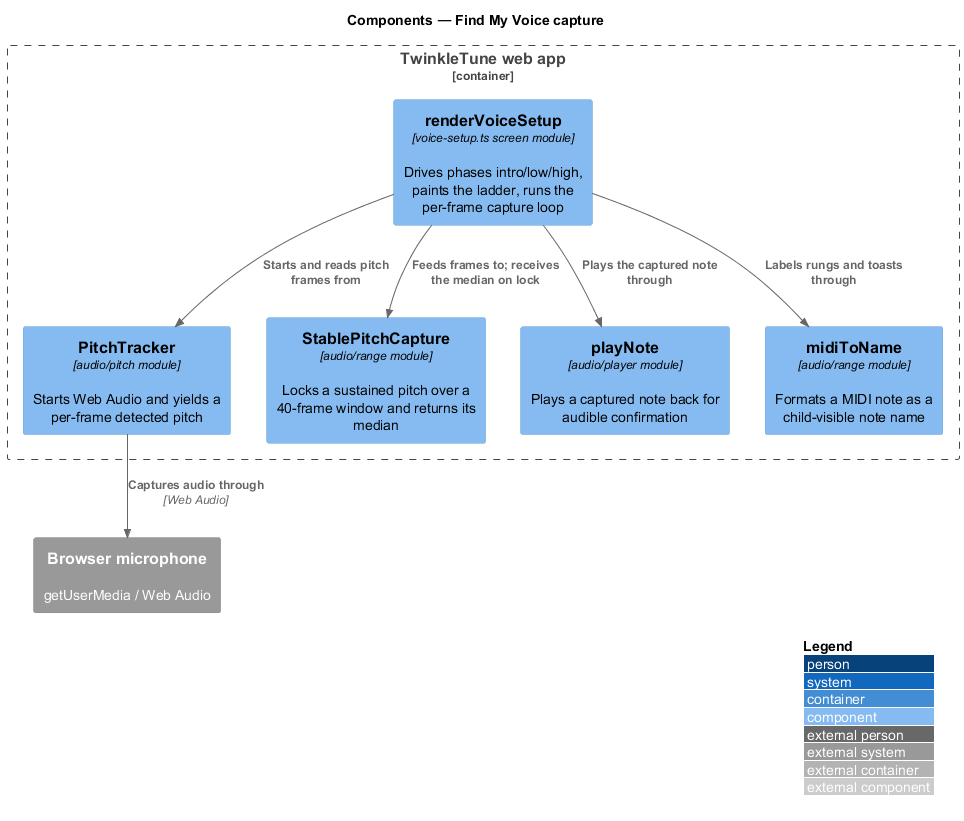
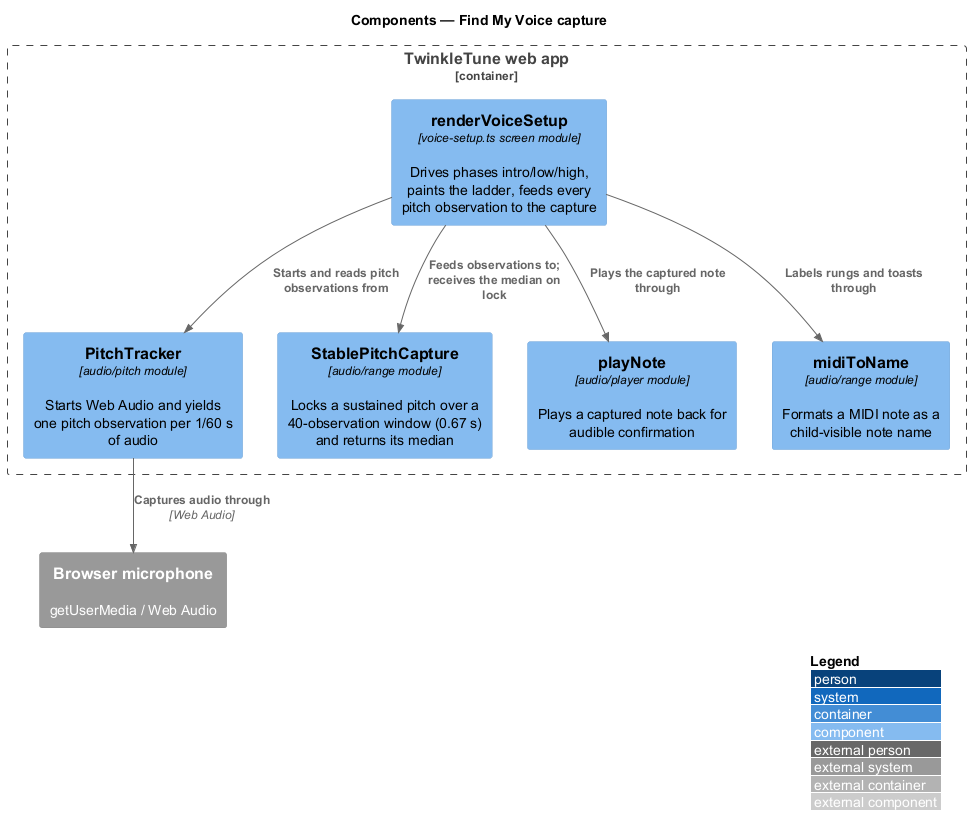
Specify Find My Voice capture on the fixed analysis step (VP-L2-3, VP-L2-4)
Requirement and design: the detection window is 40 observations of the
audio engine's 1/60 s step, 0.67 s of singing on every device, instead of
40 animation frames (0.33 s at 120 Hz, 1.3 s at 30 fps).

diff --git a/docs/detailed-designs/voice-personalization/capture-vocal-range/README.md b/docs/detailed-designs/voice-personalization/capture-vocal-range/README.md
@@ -19,8 +19,11 @@ semitone
 **pitch ladder** — vertical strip of 12 rungs spanning C3 to C6, 3 semitones per rung, that
 visualises the currently detected pitch
 
-**detection window** — rolling buffer of 40 frames, about 0.7 s at 60 fps, over which pitch
-stability is measured
+**observation** — pitch (or none) for one 1/60 s step of audio, as the Audio Engine reports it;
+several arrive in one animation frame on a slow display and none on some frames of a fast one
+
+**detection window** — rolling buffer of 40 observations, 0.67 s of singing on every device, over
+which pitch stability is measured
 
 **stable-pitch lock** — acceptance of a note once the detection window is full and the spread
 between its 10th and 90th percentile detected pitches is at most 1.0 semitone
@@ -35,7 +38,8 @@ The low note is stored first, the high note second. A high note that fails the s
 rejected with a gentle prompt rather than an error.
 
 Capture runs fully on device and offline. The browser microphone supplies audio; the
-`PitchTracker` in the Audio Engine turns it into per-frame pitch; the rest is screen logic and a
+`PitchTracker` in the Audio Engine turns it into one pitch observation per 1/60 s of audio; the
+rest is screen logic and a
 small stability filter. No server takes part. This feature is the front door to Voice
 Personalization: `compute-transposition` consumes the captured range to re-key songs, and
 `persist-and-sync-range` stores it against the singer. Denied-microphone handling and the
@@ -57,16 +61,22 @@ the browser microphone.
 - **`paintLadder`** — marks the current rung, lights the rungs below it, and places the singer's
   avatar marker on the current rung; shows no current rung when no pitch is detected.
 - **`PitchTracker`** — pitch primitive in `frontend/src/audio/pitch.ts`. Its `start` opens the
-  microphone, `read` returns the current frame with a `midi` value or `null`, and `stop` releases
-  the microphone.
+  microphone, `readHops` returns every observation that has come due since the previous call —
+  each a frame with a `midi` value, or `null` — `latest` holds the newest frame, and `stop`
+  releases the microphone.
 - **`StablePitchCapture`** — stability filter in `frontend/src/audio/range.ts`. `feed(midi | null)`
-  accumulates a 40-frame window (`windowFrames = 40`), tolerates silent frames, and returns the
+  accumulates a 40-observation window (`windowFrames = 40`), tolerates silent observations, and
+  returns the
   median once the 10th-to-90th-percentile spread is within `spreadSemitones = 1.0`; `progress`
   reports 0..1 toward a lock; `reset` clears the buffer.
 - **`beginListening`** — starts the tracker, routes a denied microphone to the mic-denied dialog
   (see `fall-back-without-range`), enters the `low` phase, and starts the loop.
-- **`loop`** — per animation frame, reads a frame, paints the ladder, feeds the capture, and
-  updates the "Keep holding it… n%" text from `progress`.
+- **`loop`** — per animation frame, reads the observations with `readHops`, paints the ladder
+  from the newest frame, feeds every observation to the capture in order, and updates the "Keep
+  holding it… n%" text from `progress`. Feeding observations rather than animation frames is what
+  makes the window 0.67 s of singing on every device: a slow tablet gets several per frame, and
+  no child has to hold a note longer because her screen redraws slowly. A lock ends the frame's
+  feeding; the rest of that batch is dropped.
 - **`captured`** — on lock, stores the low note and advances, or applies the separation guard and
   finishes the high note.
 - **`markCaptured`** — marks a rung captured and labels it with `midiToName`.
@@ -84,8 +94,8 @@ more level-1 (L1) requirements, cited by identifier.
 |-------|--------------|-------------|
 | `VP-L2-1` | `VP-L1-1` | The "Find My Voice" screen shall present exactly three visible steps — an introduction, a low‑note capture, and a high‑note capture — and shall advance a three‑dot progress indicator as the singer moves through them. |
 | `VP-L2-2` | `VP-L1-1` | The screen shall display a ladder of 12 rungs spanning C3 to C6 (3 semitones per rung) and shall highlight the rung corresponding to the singer's currently detected pitch, filling in lower rungs to visualise how high she is singing. |
-| `VP-L2-3` | `VP-L1-1, VP-L1-4` | Capture shall lock onto a note only after the singer holds a steady pitch for a full detection window (40 frames, ≈0.7 s at 60 fps) during which the spread between the 10th and 90th percentile of detected pitches is at most 1.0 semitone; on lock it shall return the median pitch and reset for the next capture. |
-| `VP-L2-4` | `VP-L1-4` | A capture in progress shall survive brief detector dropouts (silent frames) but shall reset its buffer once silence exceeds 8 consecutive frames, so that a genuinely abandoned attempt does not produce a stale reading. |
+| `VP-L2-3` | `VP-L1-1, VP-L1-4` | Capture shall lock onto a note only after the singer holds a steady pitch for a full detection window — 40 consecutive observations of the audio engine's fixed 1/60 s step, 0.67 s of singing whatever the display's frame rate — during which the spread between the 10th and 90th percentile of detected pitches is at most 1.0 semitone; on lock it shall return the median pitch and reset for the next capture. |
+| `VP-L2-4` | `VP-L1-4` | A capture in progress shall survive brief detector dropouts (silent observations) but shall reset its buffer once silence exceeds 8 consecutive observations (133 ms), so that a genuinely abandoned attempt does not produce a stale reading. |
 | `VP-L2-5` | `VP-L1-1` | When the low note locks, the system shall store it as the range low, play the captured note back so the child hears it, mark the ladder rung as captured, confirm with an encouraging message, and advance to the high phase. |
 | `VP-L2-6` | `VP-L1-4` | In the high phase, a captured pitch that is fewer than 4 semitones above the stored low note shall be rejected with a gentle "reach a little higher" prompt and shall not be accepted as the high note; only a pitch at least 4 semitones above the low note shall complete capture. |
 | `VP-L2-7` | `VP-L1-1, VP-L1-7` | Each phase shall guide the child with playful, imagery‑based instructions ("a big cozy laaa", "squeak up high like a baby bird") and shall explain the benefit ("tunes every song to fit YOUR voice — never too high, never too low") without requiring the child to understand notes, octaves, or MIDI. |
@@ -108,7 +118,7 @@ external it depends on.
 
 ### Components
 
-Inside the web app, `renderVoiceSetup` drives the loop: `PitchTracker` supplies frames,
+Inside the web app, `renderVoiceSetup` drives the loop: `PitchTracker` supplies observations,
 `StablePitchCapture` locks a sustained pitch, and `playNote` and `midiToName` confirm the result.
 
 ![C4 component view for Find My Voice capture](diagrams/c4-component.png)
@@ -122,7 +132,8 @@ and tracks the current `Phase`.
 
 ### Behaviour — capture a note
 
-The loop paints the ladder each frame and feeds the capture. An `opt` block shows the dropout
+The loop paints the ladder each frame and feeds the capture every observation heard since the
+previous frame. An `opt` block shows the dropout
 tolerance from `VP-L2-4`; the closing `alt` shows the low-note confirmation, the `VP-L2-6`
 separation guard rejection, and high-note acceptance.
 

diff --git a/docs/specs/voice-personalization/L2.md b/docs/specs/voice-personalization/L2.md
@@ -55,37 +55,47 @@ Primary sources: `frontend/src/screens/voice-setup.ts`, `frontend/src/audio/rang
 
 ### VP-L2-3 — Stable sustained‑pitch lock
 - **Traces to:** VP-L1-1, VP-L1-4 · **Priority:** Must
-- **Source:** `frontend/src/audio/range.ts` (`StablePitchCapture`, window 40 frames, spread 1.0 semitone); `frontend/src/audio/range.test.ts`
+- **Revised:** v1.6 (the window is 40 observations on the engine's fixed step — the same 0.67 s of
+  singing on every device — not 40 animation frames)
+- **Source:** `frontend/src/audio/range.ts` (`StablePitchCapture`, window 40 observations, spread 1.0 semitone); `frontend/src/screens/voice-setup.ts` (feeds every observation from `tracker.readHops()`); `frontend/src/audio/range.test.ts`
 - **Requirement:** Capture shall lock onto a note only after the singer holds a steady pitch for a full
-  detection window (40 frames, ≈0.7 s at 60 fps) during which the spread between the 10th and 90th
-  percentile of detected pitches is at most 1.0 semitone; on lock it shall return the median pitch and
-  reset for the next capture.
+  detection window — 40 consecutive observations of the audio engine's fixed 1/60 s step (AE-L2-21),
+  0.67 s of singing — during which the spread between the 10th and 90th percentile of detected pitches
+  is at most 1.0 semitone; on lock it shall return the median pitch and reset for the next capture.
+  The window shall be the same length of singing whatever the display's frame rate: a child shall not
+  have to hold a note twice as long on a slow tablet, nor be captured after half the hold on a fast
+  one.
 
 **Acceptance criteria**
-> **GIVEN** a capture window of 40 frames
+> **GIVEN** a capture window of 40 observations
 > **WHEN** the singer holds a note near C4 with only a tiny wobble (spread ≤ 1.0 semitone) for the full window
 > **THEN** the capture locks and returns the median (≈C4).
 
 > **GIVEN** the singer's pitch is sliding continuously (a glissando)
-> **WHEN** frames are fed for longer than one window
+> **WHEN** observations are fed for longer than one window
 > **THEN** no lock occurs, because the percentile spread never falls within 1.0 semitone.
+
+> **GIVEN** a display drawing about four frames a second and a singer holding a steady low note
+> **WHEN** she starts Find My Voice
+> **THEN** the low note is captured within 4 seconds of her starting, not the 10 seconds that 40 animation frames would take.
 
 ---
 
 ### VP-L2-4 — Tolerance of momentary dropouts
 - **Traces to:** VP-L1-4 · **Priority:** Should
-- **Source:** `range.ts` (`StablePitchCapture.feed(null)`, resets after >8 silent frames)
-- **Requirement:** A capture in progress shall survive brief detector dropouts (silent frames) but
-  shall reset its buffer once silence exceeds 8 consecutive frames, so that a genuinely abandoned
-  attempt does not produce a stale reading.
+- **Revised:** v1.6 (counted in observations on the fixed step: 8 observations are 133 ms on every device)
+- **Source:** `range.ts` (`StablePitchCapture.feed(null)`, resets after >8 silent observations)
+- **Requirement:** A capture in progress shall survive brief detector dropouts (silent observations)
+  but shall reset its buffer once silence exceeds 8 consecutive observations (133 ms), so that a
+  genuinely abandoned attempt does not produce a stale reading.
 
 **Acceptance criteria**
 > **GIVEN** a partially filled capture buffer
-> **WHEN** a single silent frame is fed
+> **WHEN** a single silent observation is fed
 > **THEN** the accumulated progress is retained (progress > 0).
 
 > **GIVEN** a partially filled capture buffer
-> **WHEN** 9 consecutive silent frames are fed
+> **WHEN** 9 consecutive silent observations are fed
 > **THEN** the buffer resets and progress returns to 0.
 
 ---

diff --git a/docs/specs/README.md b/docs/specs/README.md
@@ -183,3 +183,4 @@ The product is decomposed into thirteen subsystems. Each has its own `L1.md` and
 | 1.3 | 2026-11-09 | Voice‑comprehension improvements | Band‑limited pitch detection and in‑band level gate (AE-L2-10, AE-L2-11, AE-L2-19, AE-L2-20). |
 | 1.4 | 2026-11-09 | Voice‑comprehension improvements | Note evidence measured in time, independent of frame rate (SR-L2-2, SR-L2-19, SG-L2-9). |
 | 1.5 | 2026-11-09 | Voice‑comprehension improvements | Fixed‑step pitch analysis independent of frame pacing (AE-L2-21, SG-L2-26, SR-L2-19). |
+| 1.6 | 2026-11-09 | Voice‑comprehension improvements | Find My Voice capture window on the fixed step (VP-L2-3, VP-L2-4). |
